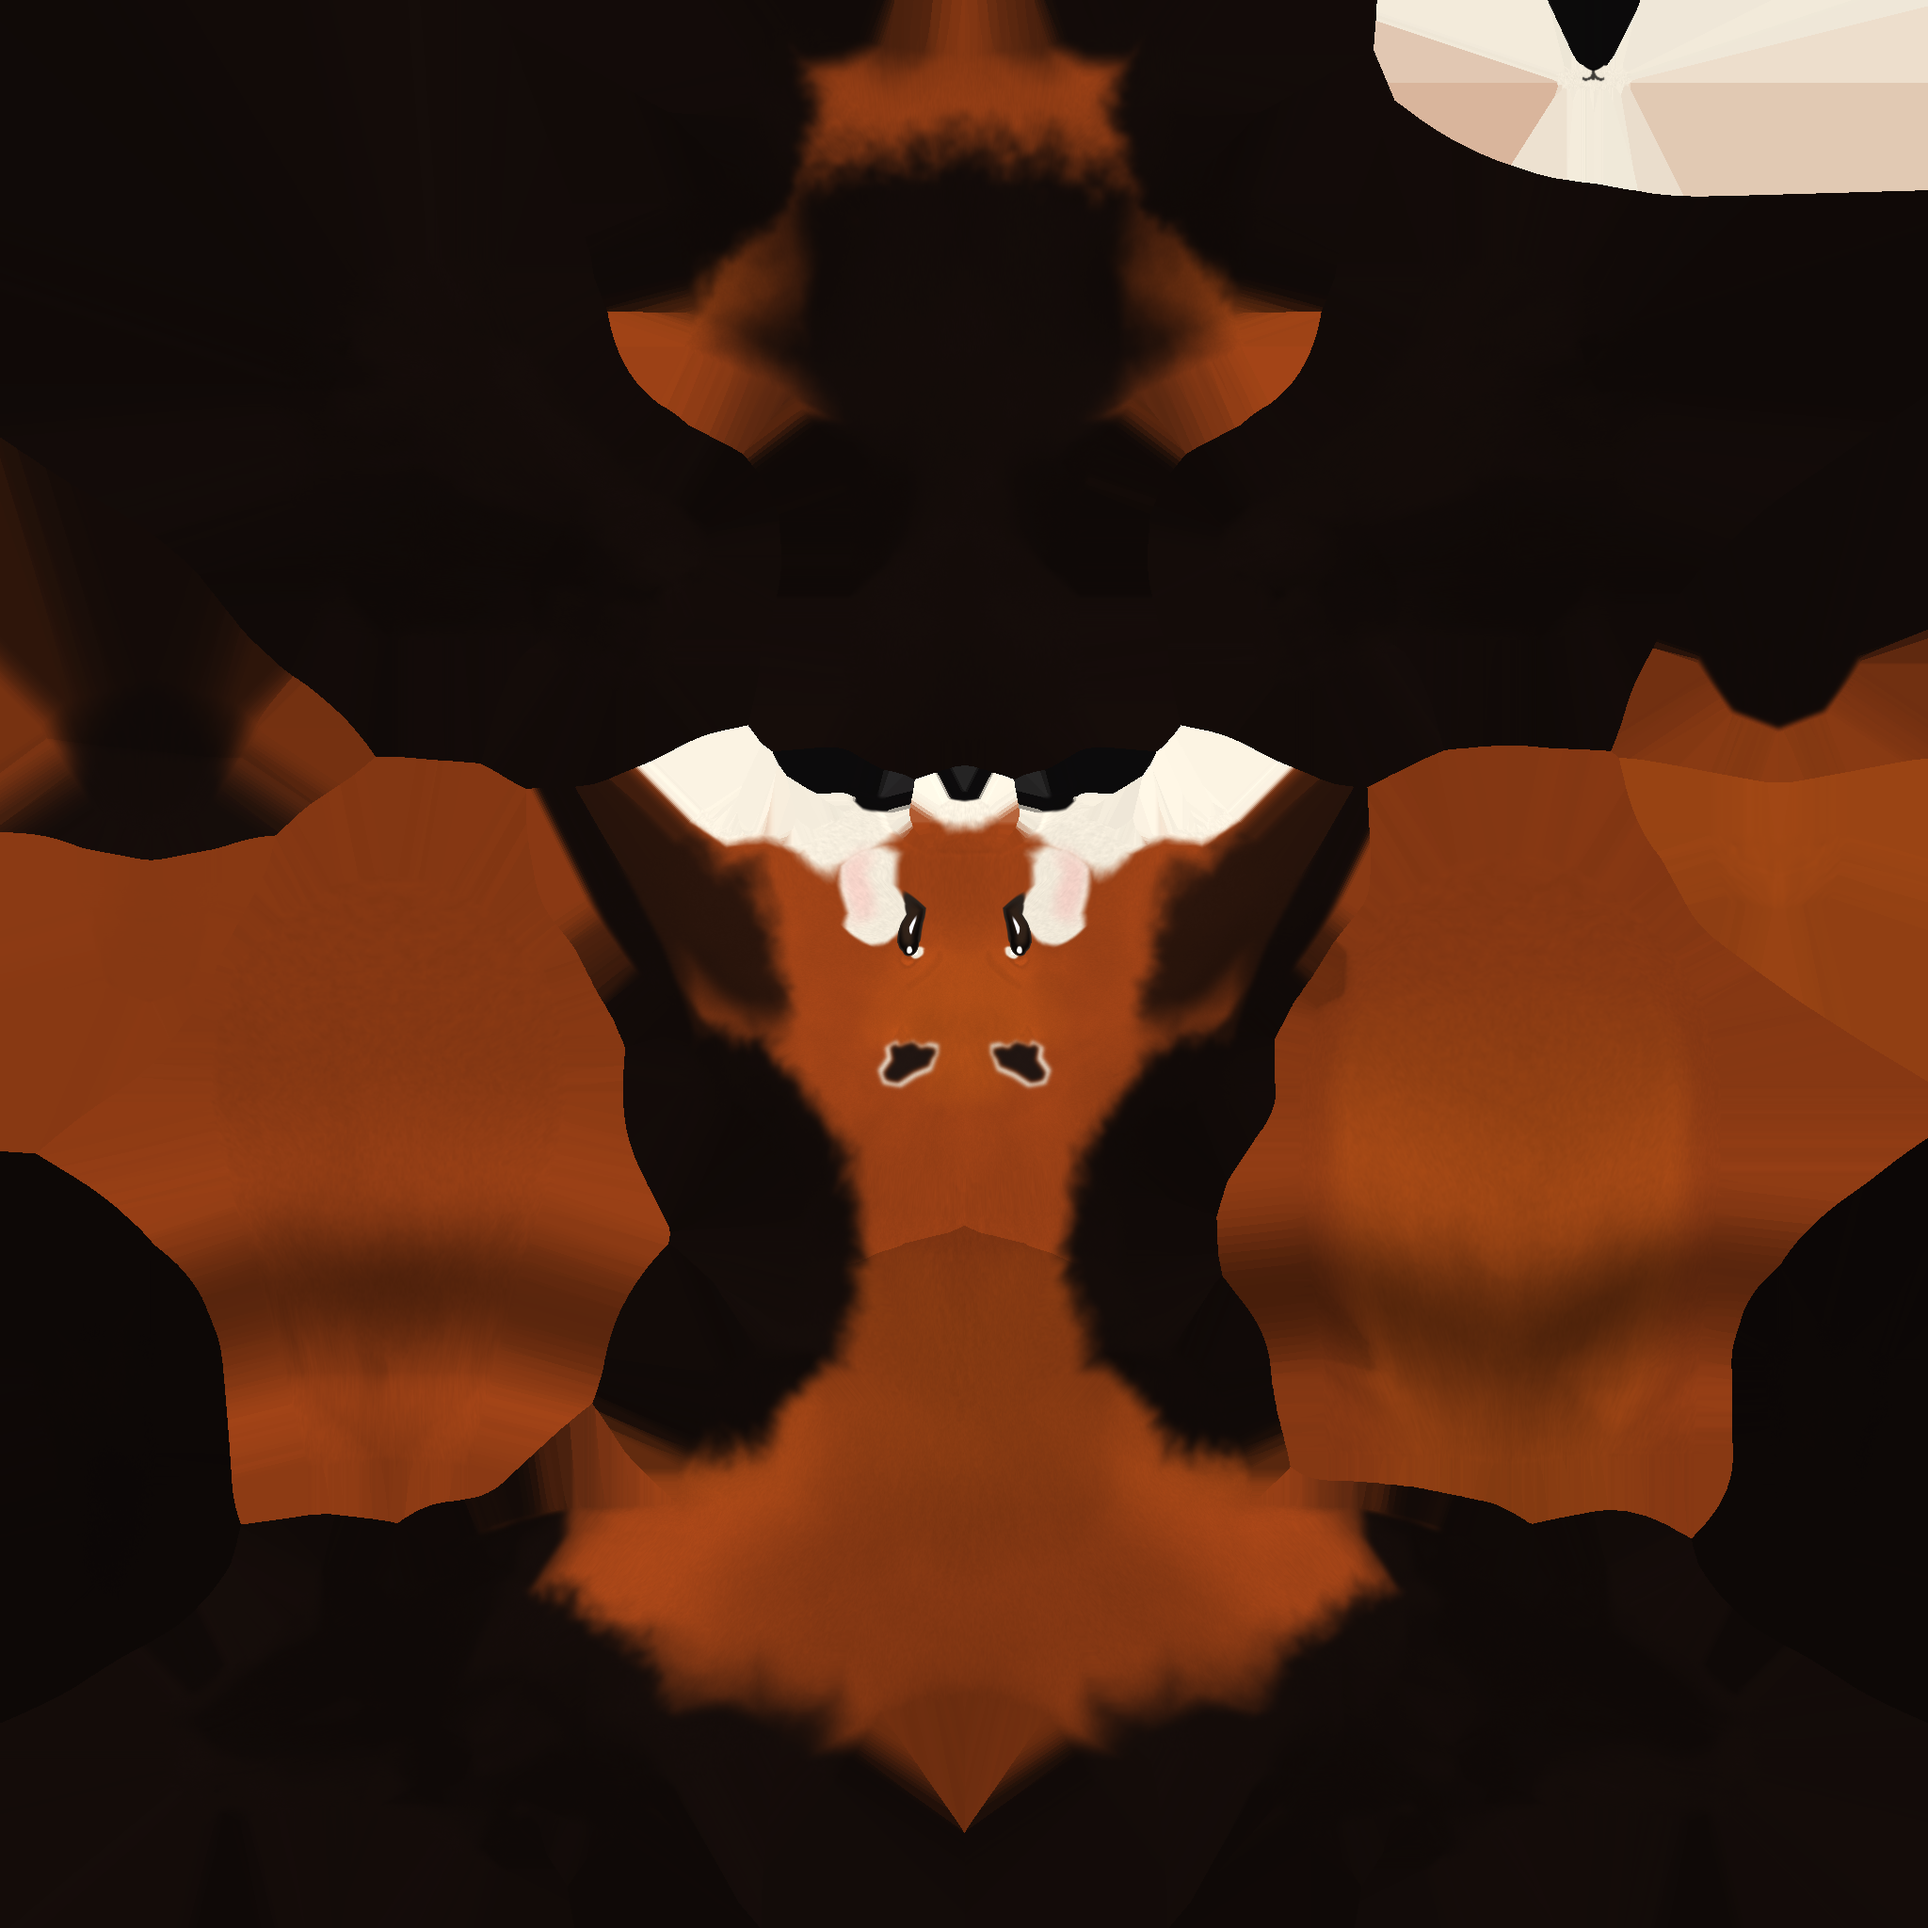
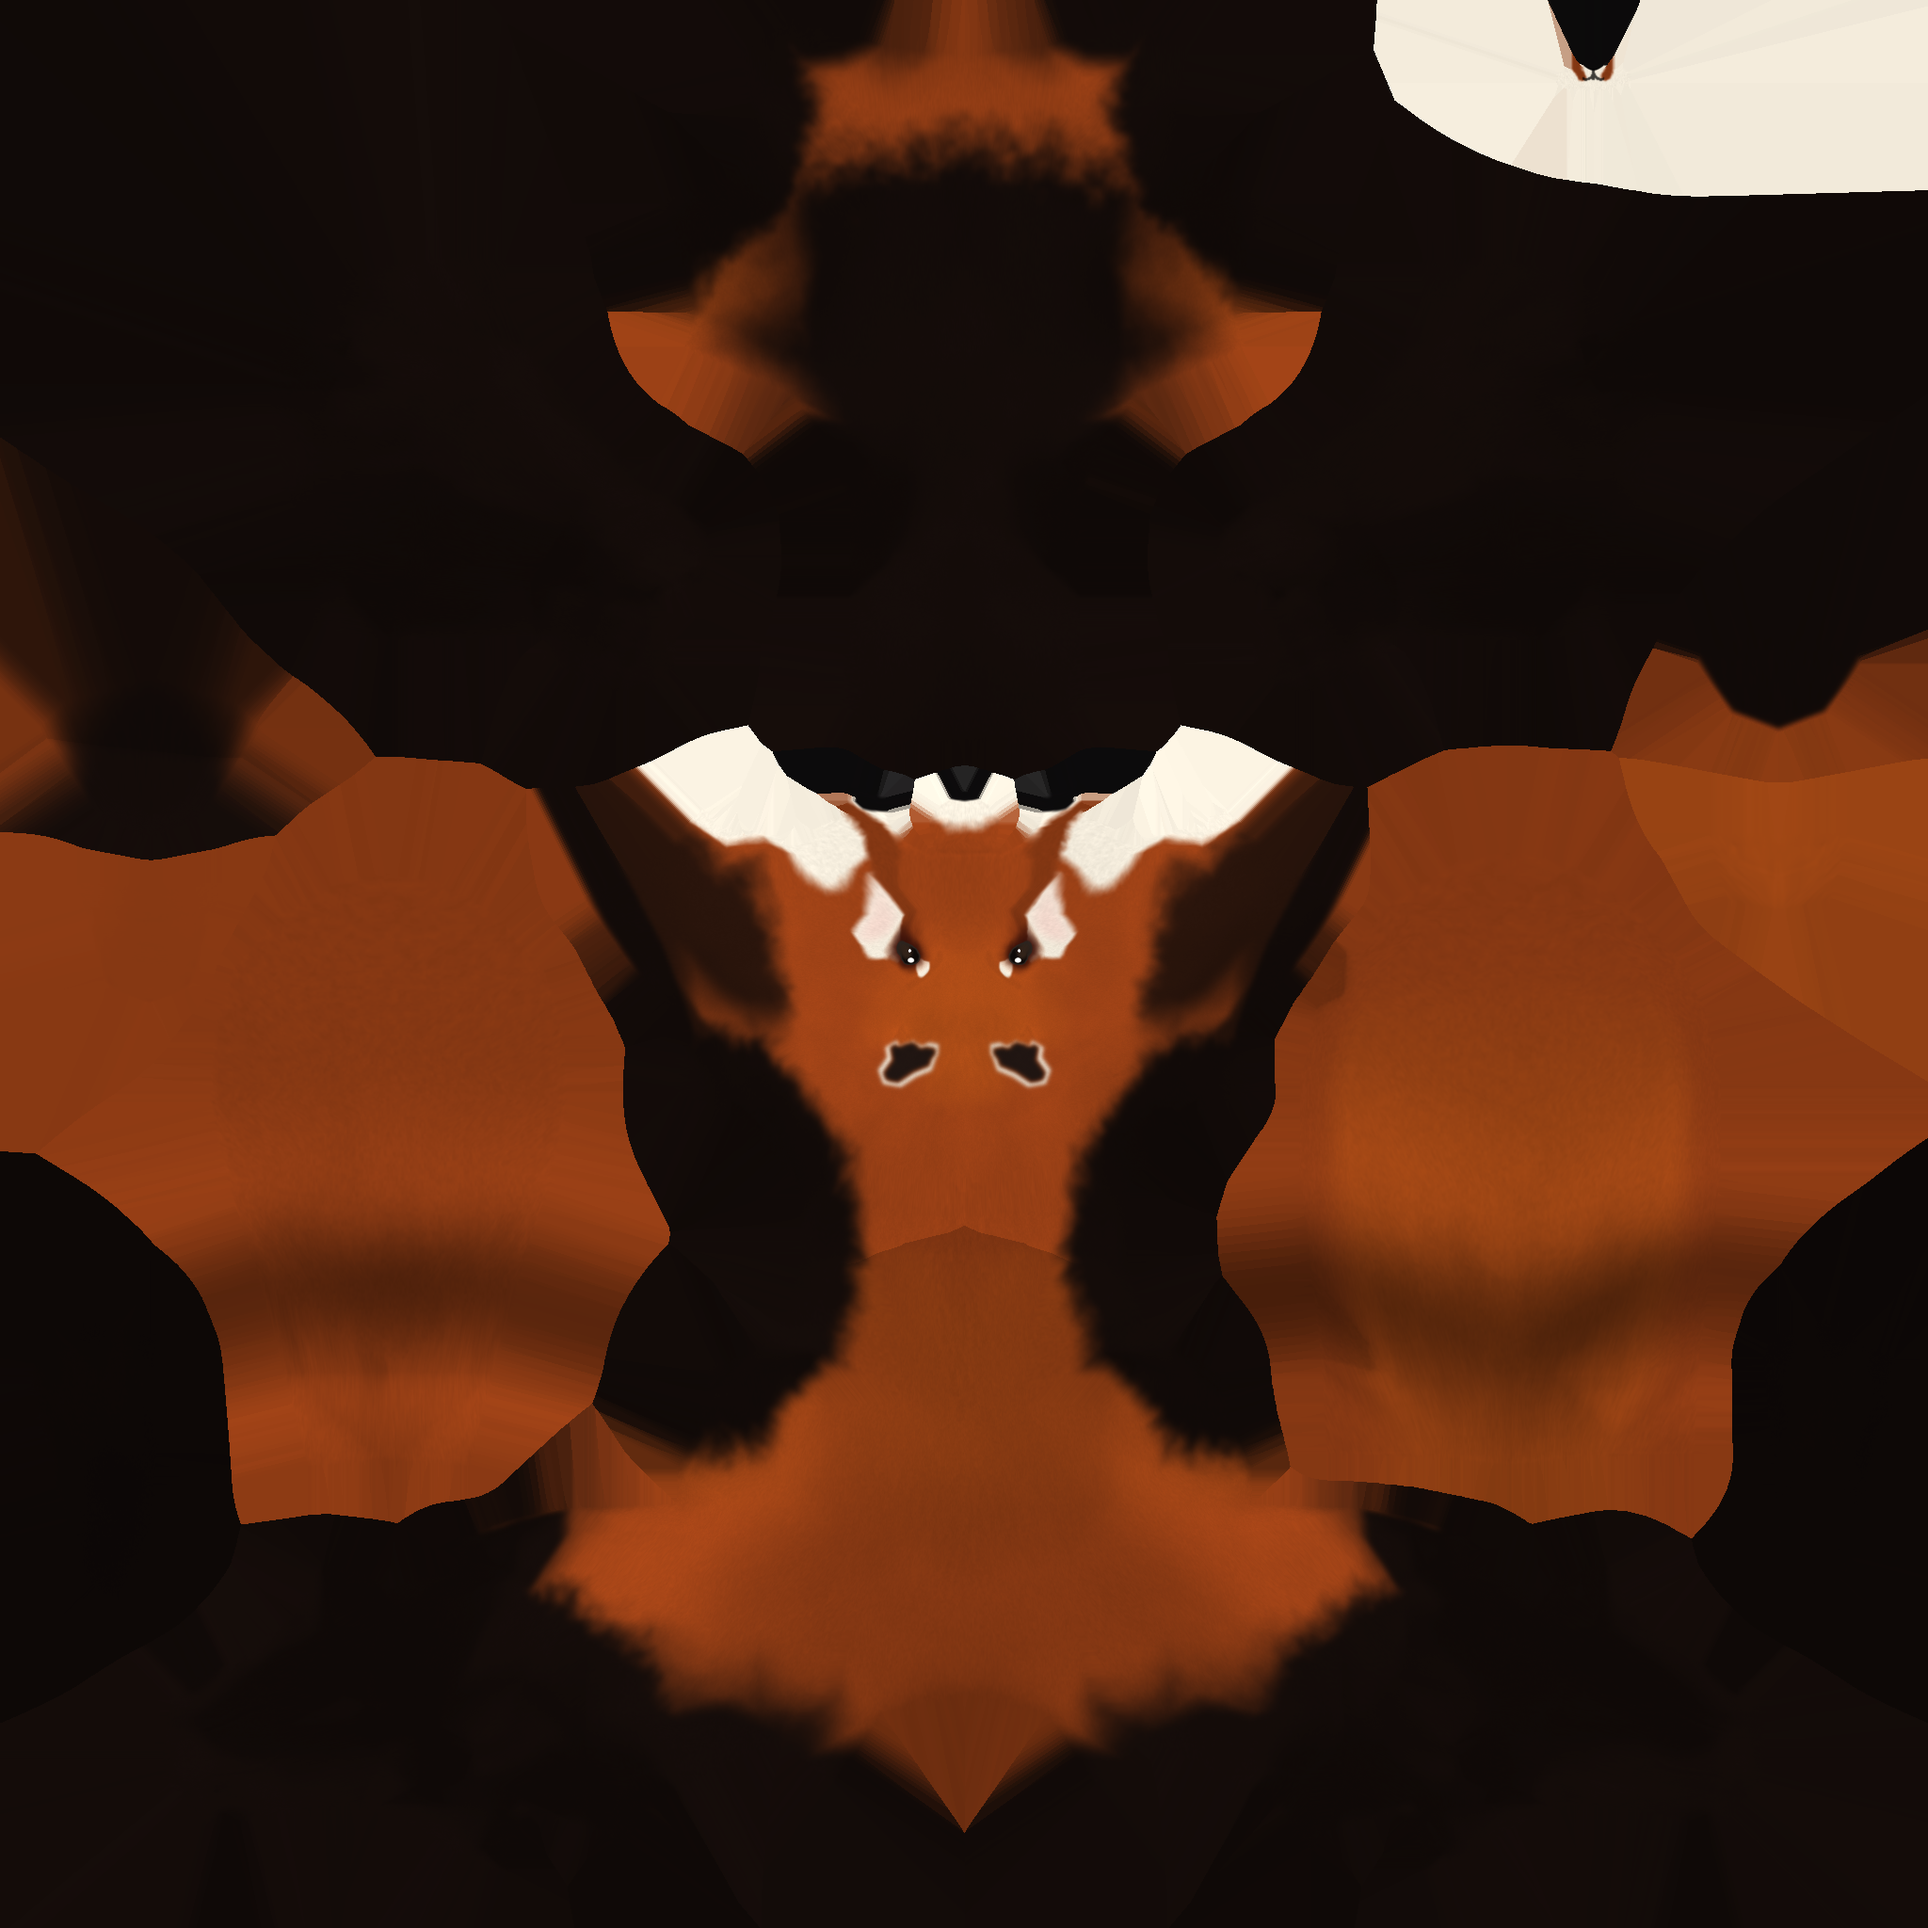
Red pandas: eyes seated in the game's eye sockets, authentic eye rings and cheek bands
The game's fixed beaver normal map has an eye-socket relief that showed through the red-panda faces.
Eyes now sit exactly in that socket with a soft mahogany eye ring over it, and the face markings use a
rusty band between the white cheeks and muzzle (like real red pandas) instead of thin tear stripes.

Claude-Session: https://claude.ai/code/session_01ELyhwnjUsiunkCYN67p2ae

Changed region(s): [[0.6875, 0.0, 1.0, 0.125], [0.4062, 0.4062, 0.5938, 0.5]]

diff --git a/src/pipeline/paint.py b/src/pipeline/paint.py
@@ -206,17 +206,23 @@ class Painter:
         for sx in (1, -1):
             white = np.maximum(white, ell(sx * (ex + 0.013 * s), ey - 0.031 * s, 0.026 * s, 0.022 * s))   # cheeks
             white = np.maximum(white, ell(sx * ex * 0.55, ny - 0.006 * s, 0.030 * s, 0.026 * s))         # joins cheeks to muzzle
-            white = np.maximum(white, ell(sx * (ex - 0.001 * s), ey + 0.020 * s, 0.012 * s, 0.009 * s))   # brows
+            white = np.maximum(white, ell(sx * (ex + 0.002 * s), ey + 0.024 * s, 0.012 * s, 0.009 * s))   # brows
         white *= fz * front
-        tear = np.zeros_like(x)
+        # authentic red-panda eye ring + tear line: soft mahogany around the eye (also covers the game's fixed
+        # beaver eye-socket relief), tapering down to the corner of the mouth
+        tear = np.zeros_like(x); band = np.zeros_like(x)
         for sx in (1, -1):
-            a = np.array([sx * ex, ey - 0.006 * s]); b = np.array([sx * (abs(nx) + 0.013 * s), ny - 0.013 * s])
+            ring = ell(sx * ex, ey - 0.0015 * s, var.get('ring_rx', 0.0125) * s, var.get('ring_ry', 0.0110) * s, 0.35)
+            a = np.array([sx * (ex - 0.0015 * s), ey - 0.008 * s]); b = np.array([sx * (abs(nx) + 0.014 * s), ny - 0.017 * s])
             ab = b - a; t = np.clip(((x - a[0]) * ab[0] + (y - a[1]) * ab[1]) / (ab @ ab), 0, 1)
             d = np.sqrt((x - a[0] - t * ab[0]) ** 2 + (y - a[1] - t * ab[1]) ** 2)
-            w = 0.0095 * s * (1.15 - 0.45 * t)
-            tear = np.maximum(tear, 1 - smoothstep(w * 0.55, w * 1.45, d + jag * 0.8))
-        tear *= fz * front * var.get('tear_strength', 0.0)
-        white = white * (1 - tear)
+            w = s * (0.0105 * (1 - t) + 0.0055 * t)
+            line = 1 - smoothstep(w * 0.5, w * 1.25, d + jag * 0.6)
+            tear = np.maximum(tear, ring)
+            band = np.maximum(band, line)
+        tear *= fz * front * var.get('tear_strength', 0.95)
+        band *= fz * front
+        white = white * (1 - np.maximum(tear, band))
         # dark throat/bib, belly, legs, arms
         darm = r['darm'][..., 0]
         arms = 1 - smoothstep(var.get('arm_reach', 0.035) - 0.012, var.get('arm_reach', 0.035) + 0.012, darm + jag * 1.5)
@@ -235,7 +241,7 @@ class Painter:
         # tail rings along the tail's length
         tail = r['tail'][..., 0]
         rings = (0.5 + 0.5 * np.sin(-z * var.get('ring_freq', 160.0) + jag * 40)) ** 3 * tail
-        return dict(white=white, tear=tear, dark=dark, ear_rim=rim * (head > 0.3), ear_in=inner, rings=rings)
+        return dict(white=white, tear=tear, band=band, dark=dark, ear_rim=rim * (head > 0.3), ear_in=inner, rings=rings)
 
     def paint_red(self, var, beaver_tex_png, out_png):
         S = self.S
@@ -254,7 +260,8 @@ class Painter:
             a = ndimage.gaussian_filter(a, k)[..., None]
             return col * (1 - a) + c * a
         col = over(dark * (1 + 0.1 * tone), rm['dark'], 2.5)
-        col = over(np.array(var.get('tear_col', (0.36, 0.12, 0.05))), rm['tear'], 1.2)
+        col = over(red * 0.82, rm['band'], 1.5)                    # rusty band between cheek and muzzle
+        col = over(np.array(var.get('tear_col', (0.20, 0.055, 0.03))), rm['tear'], 2.0)
         col = over(white * (1 + 0.03 * tone), rm['white'])
         col = over(white * 0.95, rm['ear_rim'], 2.0)
         col = over(dark * 1.3 + 0.02, rm['ear_in'], 2.0)

diff --git a/src/pipeline/make_red_textures.py b/src/pipeline/make_red_textures.py
@@ -17,13 +17,13 @@ def front_point(x, y, tol):
 
 
 if which.startswith('ADULT'):
-    lm = dict(eye=tuple(front_point(0.051, 0.487, 0.008)), nose=tuple(front_point(0.0, 0.440, 0.008)))
+    lm = dict(eye=tuple(front_point(0.040, 0.490, 0.006)), nose=tuple(front_point(0.0, 0.440, 0.008)))   # eye seated in the game's socket
     S, scale, kind, nvar = 2048, 1.0, 'adult', 5
     beaver_ao = E + 'common/adult_ao_2k.png'
     extra = {}
 elif which == 'CHILD_V3':
     # v3: eyes seated exactly in the game's fixed eyelid sockets (normal-map relief) so they read as one pair
-    lm = dict(eye=tuple(front_point(0.031, 0.303, 0.005)), nose=tuple(front_point(0.0, 0.266, 0.006)))
+    lm = dict(eye=tuple(front_point(0.0341, 0.3079, 0.005)), nose=tuple(front_point(0.0, 0.266, 0.006)))   # socket
     S, scale, kind, nvar = 2048, 0.66, 'child', 3
     beaver_ao = E + 'common/child_ao_1k.png'
     extra = dict(band_y=0.268, leg_reach=0.145, arm_reach=0.040, patch_a=0.034, patch_b=0.021, nose_w=0.021, nose_h=0.013, wobble=0.005)
@@ -64,10 +64,10 @@ if which == 'CHILD_V3':
     CUTE = dict(CUTE, eye_dy=0.0, eye_r=0.0165, hi_r=0.0050, patch_a=0.034, patch_b=0.031, patch_dy=-0.002, patch_dx=0.001)
 if V2:
     style = CUTE if kind == 'child' else REAL
-    RED = [dict(dict(v, **style), blush=0.35 if kind == 'child' else 0) for v in RED]
+    RED = [dict(dict(v, **style), blush=0.25 if kind == 'child' else 0, ring_rx=0.025 if kind == 'child' else 0.0175, ring_ry=0.023 if kind == 'child' else 0.0155) for v in RED]
     if kind == 'adult':
         # bigger, glossier eyes than the giant-panda adults: red pandas read as cute, not stern
-        RED = [dict(v, eye_r=0.0098, eye_rim_w=0.0015, hi_r=0.0030, sparkle2=True, eye_squash=1.0,
+        RED = [dict(v, eye_r=0.0080, eye_rim_w=0.0014, hi_r=0.0026, ring_rx=0.0175, ring_ry=0.0155, sparkle2=True, eye_squash=1.0,
                     iris=(0.07, 0.045, 0.035), iris_low=(0.10, 0.06, 0.04)) for v in RED]
 os.makedirs(outdir, exist_ok=True)
 for v in RED:
